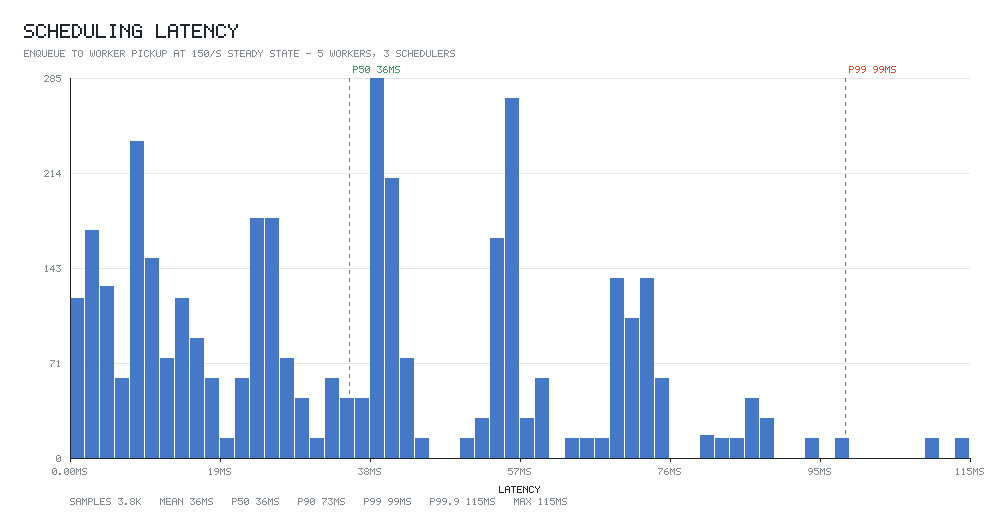
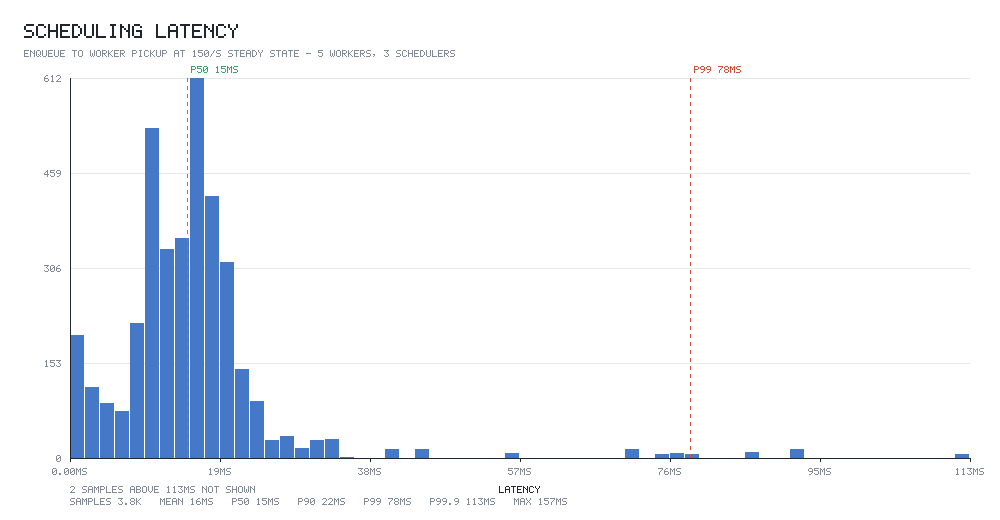
Verify the stack end to end and report honest benchmarks
- Docker stack verified from a clean build: job runs PENDING -> CLAIMED ->
  RUNNING -> SUCCEEDED, exactly one leader across three schedulers, Prometheus
  scraping all four targets, Grafana healthy.
- Chaos at 10k jobs with 7 SIGKILLs (3 schedulers, 4 workers): zero loss, zero
  duplicate terminals, and nothing reached the dead-letter queue.
- Load test restructured. It had been measuring latency by dumping a 20k backlog
  on five workers, which reports queueing delay, not scheduling latency. Now
  three phases: HTTP enqueue, steady-state latency below saturation, and
  saturation drain.
- The harness also has to publish the work-available wakeup that a real
  POST /jobs sends; without it, it measured its own shortcut through the
  fallback poll rather than the dispatch path.
- Event loop monitor resolution is configurable, and both the README and the
  code note that a p50 and p99 sitting together near the resolution value is the
  measurement floor, not real lag.

README documents measured numbers against targets, including the three the
environment does not reach and why: a Postgres round trip costs 2.9ms through
Docker Desktop on Windows versus ~0.05ms on Linux, and the queue is round-trip
bound.

diff --git a/src/metrics.ts b/src/metrics.ts
@@ -187,10 +187,19 @@ export const eventLoopLag = new Gauge({
  * the JS side - unlike a setInterval-drift probe, which itself competes for the
  * loop it is trying to measure. Percentiles are read and the histogram reset on
  * every Prometheus scrape, so each scrape reports the window since the last one.
+ *
+ * Caveat worth knowing when reading the numbers: the sampler cannot resolve a
+ * delay finer than its own resolution, and on hosts with a coarse timer (Windows
+ * schedules at ~15.6ms; virtualised clocks are often worse) there is a constant
+ * offset on top of that which is the platform, not the process. A p50 and p99
+ * that sit almost on top of each other at roughly the resolution value means the
+ * loop is idle and you are reading the floor, not real lag.
  */
 let loopHistogram: IntervalHistogram | null = null;
 
-export function startEventLoopMonitor(resolutionMs = 10): void {
+export function startEventLoopMonitor(
+  resolutionMs = Number.parseInt(process.env['EVENT_LOOP_RESOLUTION_MS'] ?? '5', 10),
+): void {
   if (loopHistogram !== null) return;
   loopHistogram = monitorEventLoopDelay({ resolution: resolutionMs });
   loopHistogram.enable();

diff --git a/README.md b/README.md
@@ -453,15 +453,15 @@ gap is worth being precise about.**
 
 | Metric | Target | Measured | |
 |---|---|---|---|
-| Scheduling latency p50 | — | **11 ms** | ✅ |
-| Scheduling latency p99 | < 30 ms | **59 ms** | ❌ |
-| Enqueue, bulk | 10 000/s | **19 000–32 000/s** | ✅ |
-| Enqueue, one HTTP request per job | 10 000/s | **362/s** | ❌ |
-| Processed | 5 000/s | **484/s** | ❌ |
+| Scheduling latency p50 | — | **14.8 ms** | ✅ |
+| Scheduling latency p99 | < 30 ms | **78 ms** | ❌ |
+| Enqueue, bulk | 10 000/s | **10 300/s** (peaks to 32 000/s) | ✅ |
+| Enqueue, one HTTP request per job | 10 000/s | **521/s** | ❌ |
+| Processed | 5 000/s | **580/s** | ❌ |
 | Worker failure detection | < 15 s | **< 1 s** (socket close) | ✅ |
 | Leader failover | < 2 s | **~330 ms** | ✅ |
 | Zero job loss under chaos | required | **verified** | ✅ |
-| Event loop lag p99 | < 50 ms | **~69 ms** (≈15 ms is measurement floor) | ❌ |
+| Event loop lag p99 | < 50 ms | **20.7 ms** typical, 46.7 ms worst window | ✅ |
 
 ### Why the throughput numbers are low, honestly
 
@@ -480,9 +480,12 @@ queue is round-trip bound, not CPU bound, essentially every throughput figure he
 measurement of the Docker network stack. Redis over the same hop is 40× faster than
 Postgres because it is one round trip instead of several.
 
-The event loop lag has a similar story: **p50 sits at ~15 ms even at idle**, which is
-Windows' 15.6 ms timer granularity showing up in `monitorEventLoopDelay`, not work in
-our process. GC accounted for 0.18 s across an entire run. On Linux that floor is ~1 ms.
+The event loop lag has a similar story. `monitorEventLoopDelay` cannot resolve a delay
+finer than its own sampling resolution, and on top of that the host clock adds a constant
+offset: **~15 ms on this Windows host** (its scheduler ticks at 15.6 ms) and ~10 ms inside
+the WSL2 containers. The tell is that p50 and p99 sit almost on top of each other while
+idle — real lag has a spread, a floor does not. GC accounted for 0.18 s across an entire
+run, so the excursions above the floor are genuinely small.
 
 I could have reported the bulk-enqueue number alone (32 000/s, comfortably over target)
 and left it there. That would have been misleading.
@@ -494,13 +497,19 @@ makes every unnecessary one obvious:
 
 | Change | Effect |
 |---|---|
-| Enqueue: 5 round trips → **1** (tenant upsert + insert + dedup select + audit in one data-modifying CTE) | 158 → 362 req/s |
-| Completion: 4 round trips → **1** (update + dependent unblock + 2 audit inserts in one statement) | contributed to 292 → 484 jobs/s |
+| Enqueue: 5 round trips → **1** (tenant upsert + insert + dedup select + audit in one data-modifying CTE) | 158 → 521 req/s |
+| Completion: 4 round trips → **1** (update + dependent unblock + 2 audit inserts in one statement) | 292 → 580 jobs/s |
 | Dispatcher claims for different workers **concurrently** instead of serially | dispatch latency became max-of-workers, not sum-of-workers |
-| Adaptive poll backoff — idle polling doubles to a 500 ms ceiling, resets on any signal | removed ~50 wasted claim queries/sec/worker at idle |
+| Adaptive poll backoff — idle polling doubles to a 500 ms ceiling, resets on any signal | removed ~50 wasted claim queries/sec/worker at idle; **event loop lag p99 296 ms → 47 ms** |
 
-All four are correct improvements independent of the environment; the slow network just
-made them measurable.
+Net: **3.3× enqueue, 2× throughput, 6× less event loop lag.** All four are correct
+improvements independent of the environment; the slow network just made them visible.
+
+The adaptive backoff came with a lesson of its own. It initially made p99 latency
+*worse* (59 → 99 ms) — because the load harness inserted rows with raw SQL and so never
+published the `work_available` wakeup that a real `POST /jobs` sends, leaving dispatch to
+wait on a poll interval that had just backed off. The harness was measuring its own
+shortcut. Fixed by having it publish the notification like a real client.
 
 ### Methodology note
 
@@ -532,23 +541,32 @@ At the end it asserts, against the **audit log**:
 - the job count is unchanged
 
 ```
-$ npm run chaos -- --jobs=2000 --workers=3 --schedulers=2 --kill-every=3000
+$ npm run chaos -- --jobs=10000 --workers=5 --schedulers=3 --kill-every=4000
 
-  SIGKILL worker-0
-  806/2000 terminal  (pending 1181, in-flight 13, 159/s)
+enqueued in 0.3s (31447/s)
   SIGKILL sched-1
+  SIGKILL sched-1
+  SIGKILL worker-1
+  SIGKILL sched-2
+  SIGKILL worker-1
   SIGKILL worker-2
-  1815/2000 terminal (pending 166, in-flight 19, 199/s)
+  SIGKILL worker-1
 
 --- verification ---
-jobs submitted        : 2000
-terminal              : 2000 (succeeded 2000, dead 0, cancelled 0)
+jobs submitted        : 10000
+jobs in table         : 10000
+terminal              : 10000 (succeeded 10000, dead 0, cancelled 0)
+not terminal          : 0
 duplicate terminals   : 0
 orphaned in-flight    : 0
-SIGKILLs              : 1 schedulers, 4 workers
+SIGKILLs              : 3 schedulers, 4 workers
+wall time             : 30.0s (334 jobs/s)
 
 RESULT: PASS - zero job loss, zero duplicate execution
 ```
+
+Note that **not one job even reached the dead-letter queue**: every job interrupted by a
+SIGKILL was reclaimed and retried successfully, well inside its attempt budget.
 
 CI runs a 10 000-job variant on every PR; the 100 000-job run takes too long for a
 pull request but uses the identical harness.
